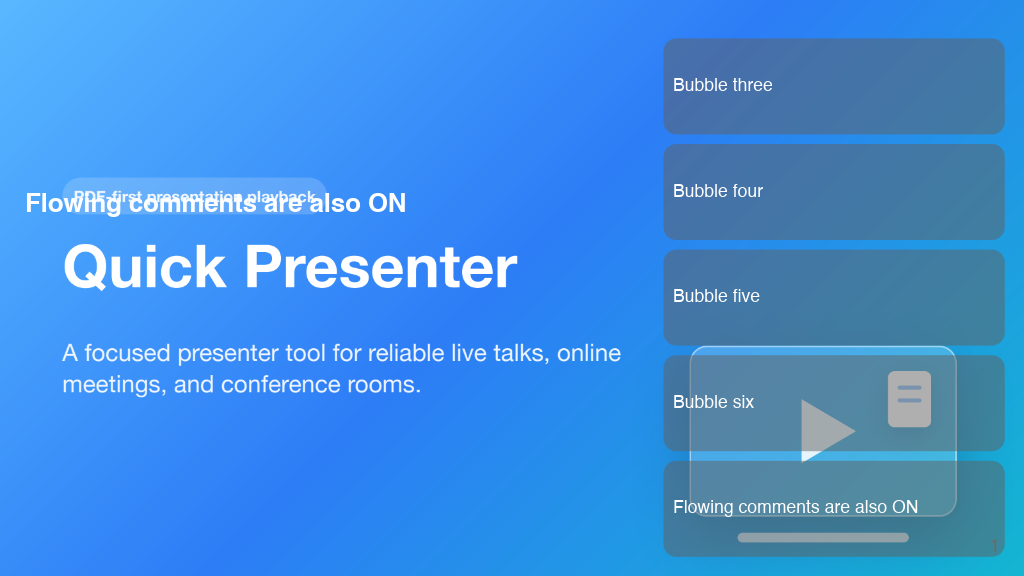
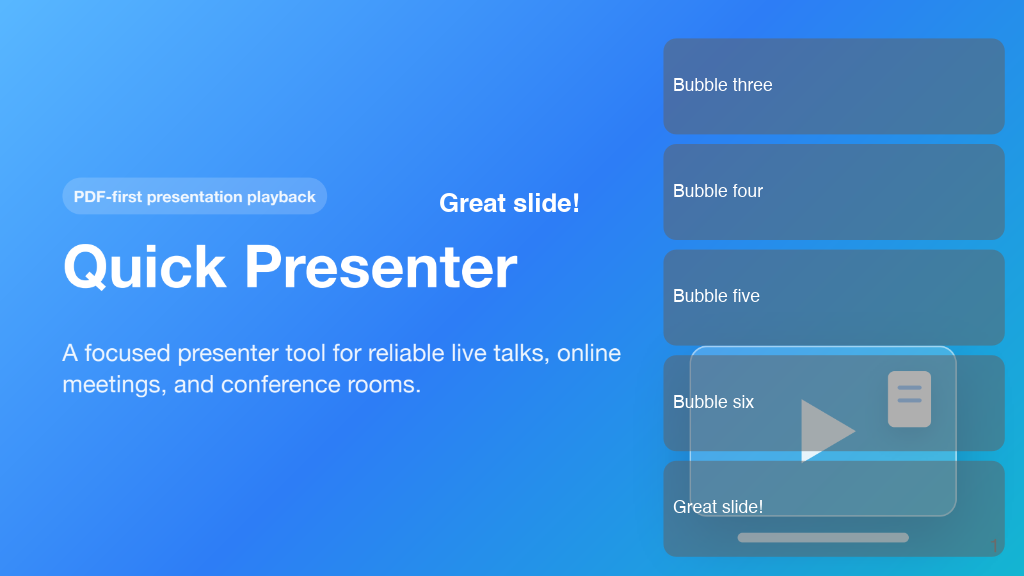
Capture comments between slide text and the bubble stack

Changed region(s): [[0.0, 0.3125, 0.5625, 0.375], [0.6562, 0.875, 0.9062, 0.9062]]

diff --git a/src/gui_smoke.rs b/src/gui_smoke.rs
@@ -1645,7 +1645,7 @@ async fn check_live_comments(
     );
     save_comment_smoke_snapshot(audience, state, "five-bubbles").await?;
     presenter.invoke_audience_set_comment_display(true, true);
-    submit("Flowing comments are also ON")?;
+    submit("Great slide!")?;
     let deadline = Instant::now() + Duration::from_secs(3);
     while audience.get_audience_comments().row_count() == 0 && Instant::now() < deadline {
         settle_presenter_notes_layout(presenter).await?;
@@ -1659,7 +1659,7 @@ async fn check_live_comments(
         "combined five-card display is missing",
     );
     if std::env::var_os("QP_GUI_SMOKE_BUBBLES_SNAPSHOT").is_some() {
-        delay(Duration::from_secs(6)).await;
+        delay(Duration::from_secs(3)).await;
     }
     save_comment_smoke_snapshot(audience, state, "five-bubbles-combined").await?;
     presenter.invoke_audience_toggle_comments();

diff --git a/docs/validation/V300_COMMENT_BUBBLES_20261025.md b/docs/validation/V300_COMMENT_BUBBLES_20261025.md
@@ -153,7 +153,8 @@ to accommodate all five cards.
 
 The actual demo-PDF Audience window below shows five stacked bubbles while a
 new comment also flows across the slide. The capture waits for entry/exit
-motion to settle and for the flowing text to reach the left half of the slide.
+motion to settle and captures a short flowing comment in the open space between
+the slide badge and the right-hand bubble stack, reducing overlap with slide text.
 The first new coexistence assertion ran during the transient exiting-card
 animation; it was corrected to wait for that animation before checking the
 settled count. The screenshot was taken after settling. The final focused run passes **123
